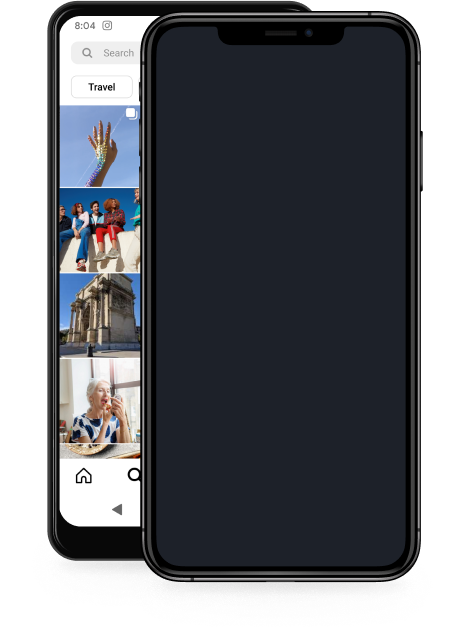
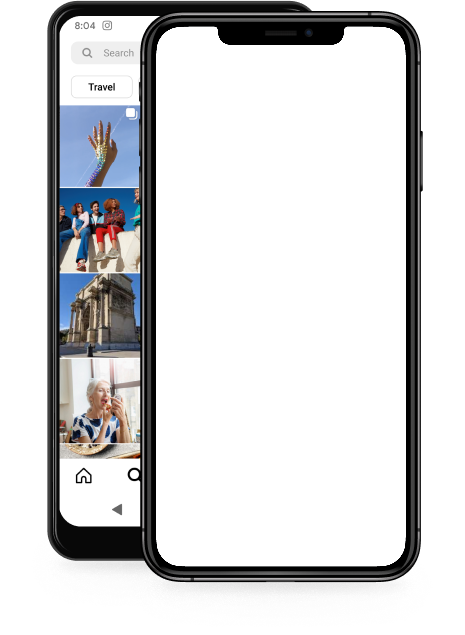
Added JS script to change phone image

diff --git a/script.js b/script.js
@@ -1,0 +1,29 @@
+let imageSources = [
+    "static/ig-background1.png",
+    "static/ig-background2.png",
+    // "static/ig-background3.png",
+    "static/ig-background4.png"
+    ];
+let currentImage = 0;
+let phone = document.getElementById("phone").firstElementChild;
+
+function changeImage () {
+    // Change to next image
+    currentImage++;
+    // Resets to first image if there is no next image
+    if (currentImage == imageSources.length) {
+        currentImage = 0;
+    };
+    // Change background image and its attributes
+    phone.style.backgroundImage = `url(${imageSources[currentImage]})`;
+    phone.style.backgroundRepeat = "no-repeat"
+    phone.style.backgroundOrigin = "border-box"
+    phone.style.backgroundPosition = "73% 26%"
+};
+
+function imageTimer (time) {
+    // Call changeImage function every x time
+    let timer = setInterval(changeImage, time)
+}
+
+imageTimer(5000)

diff --git a/style.css b/style.css
@@ -24,6 +24,13 @@ body {
     top: 5px;
 }
 
+#phone {
+    background-image: url(static/ig-background1.png);
+    background-repeat: no-repeat;
+    background-origin: border-box;
+    background-position: 73% 26%;
+}
+
 #menu {
     position: relative;
     top: 15px;

diff --git a/index.html b/index.html
@@ -75,5 +75,6 @@
             <span>2022 Instagram from <a href="https://github.com/RodrigoPdeOliveira" target="_blank" style="margin: 0;">Rodrigo</a></span>
         </div>
     </footer>
+    <script src="script.js"></script>
 </body>
 </html>
